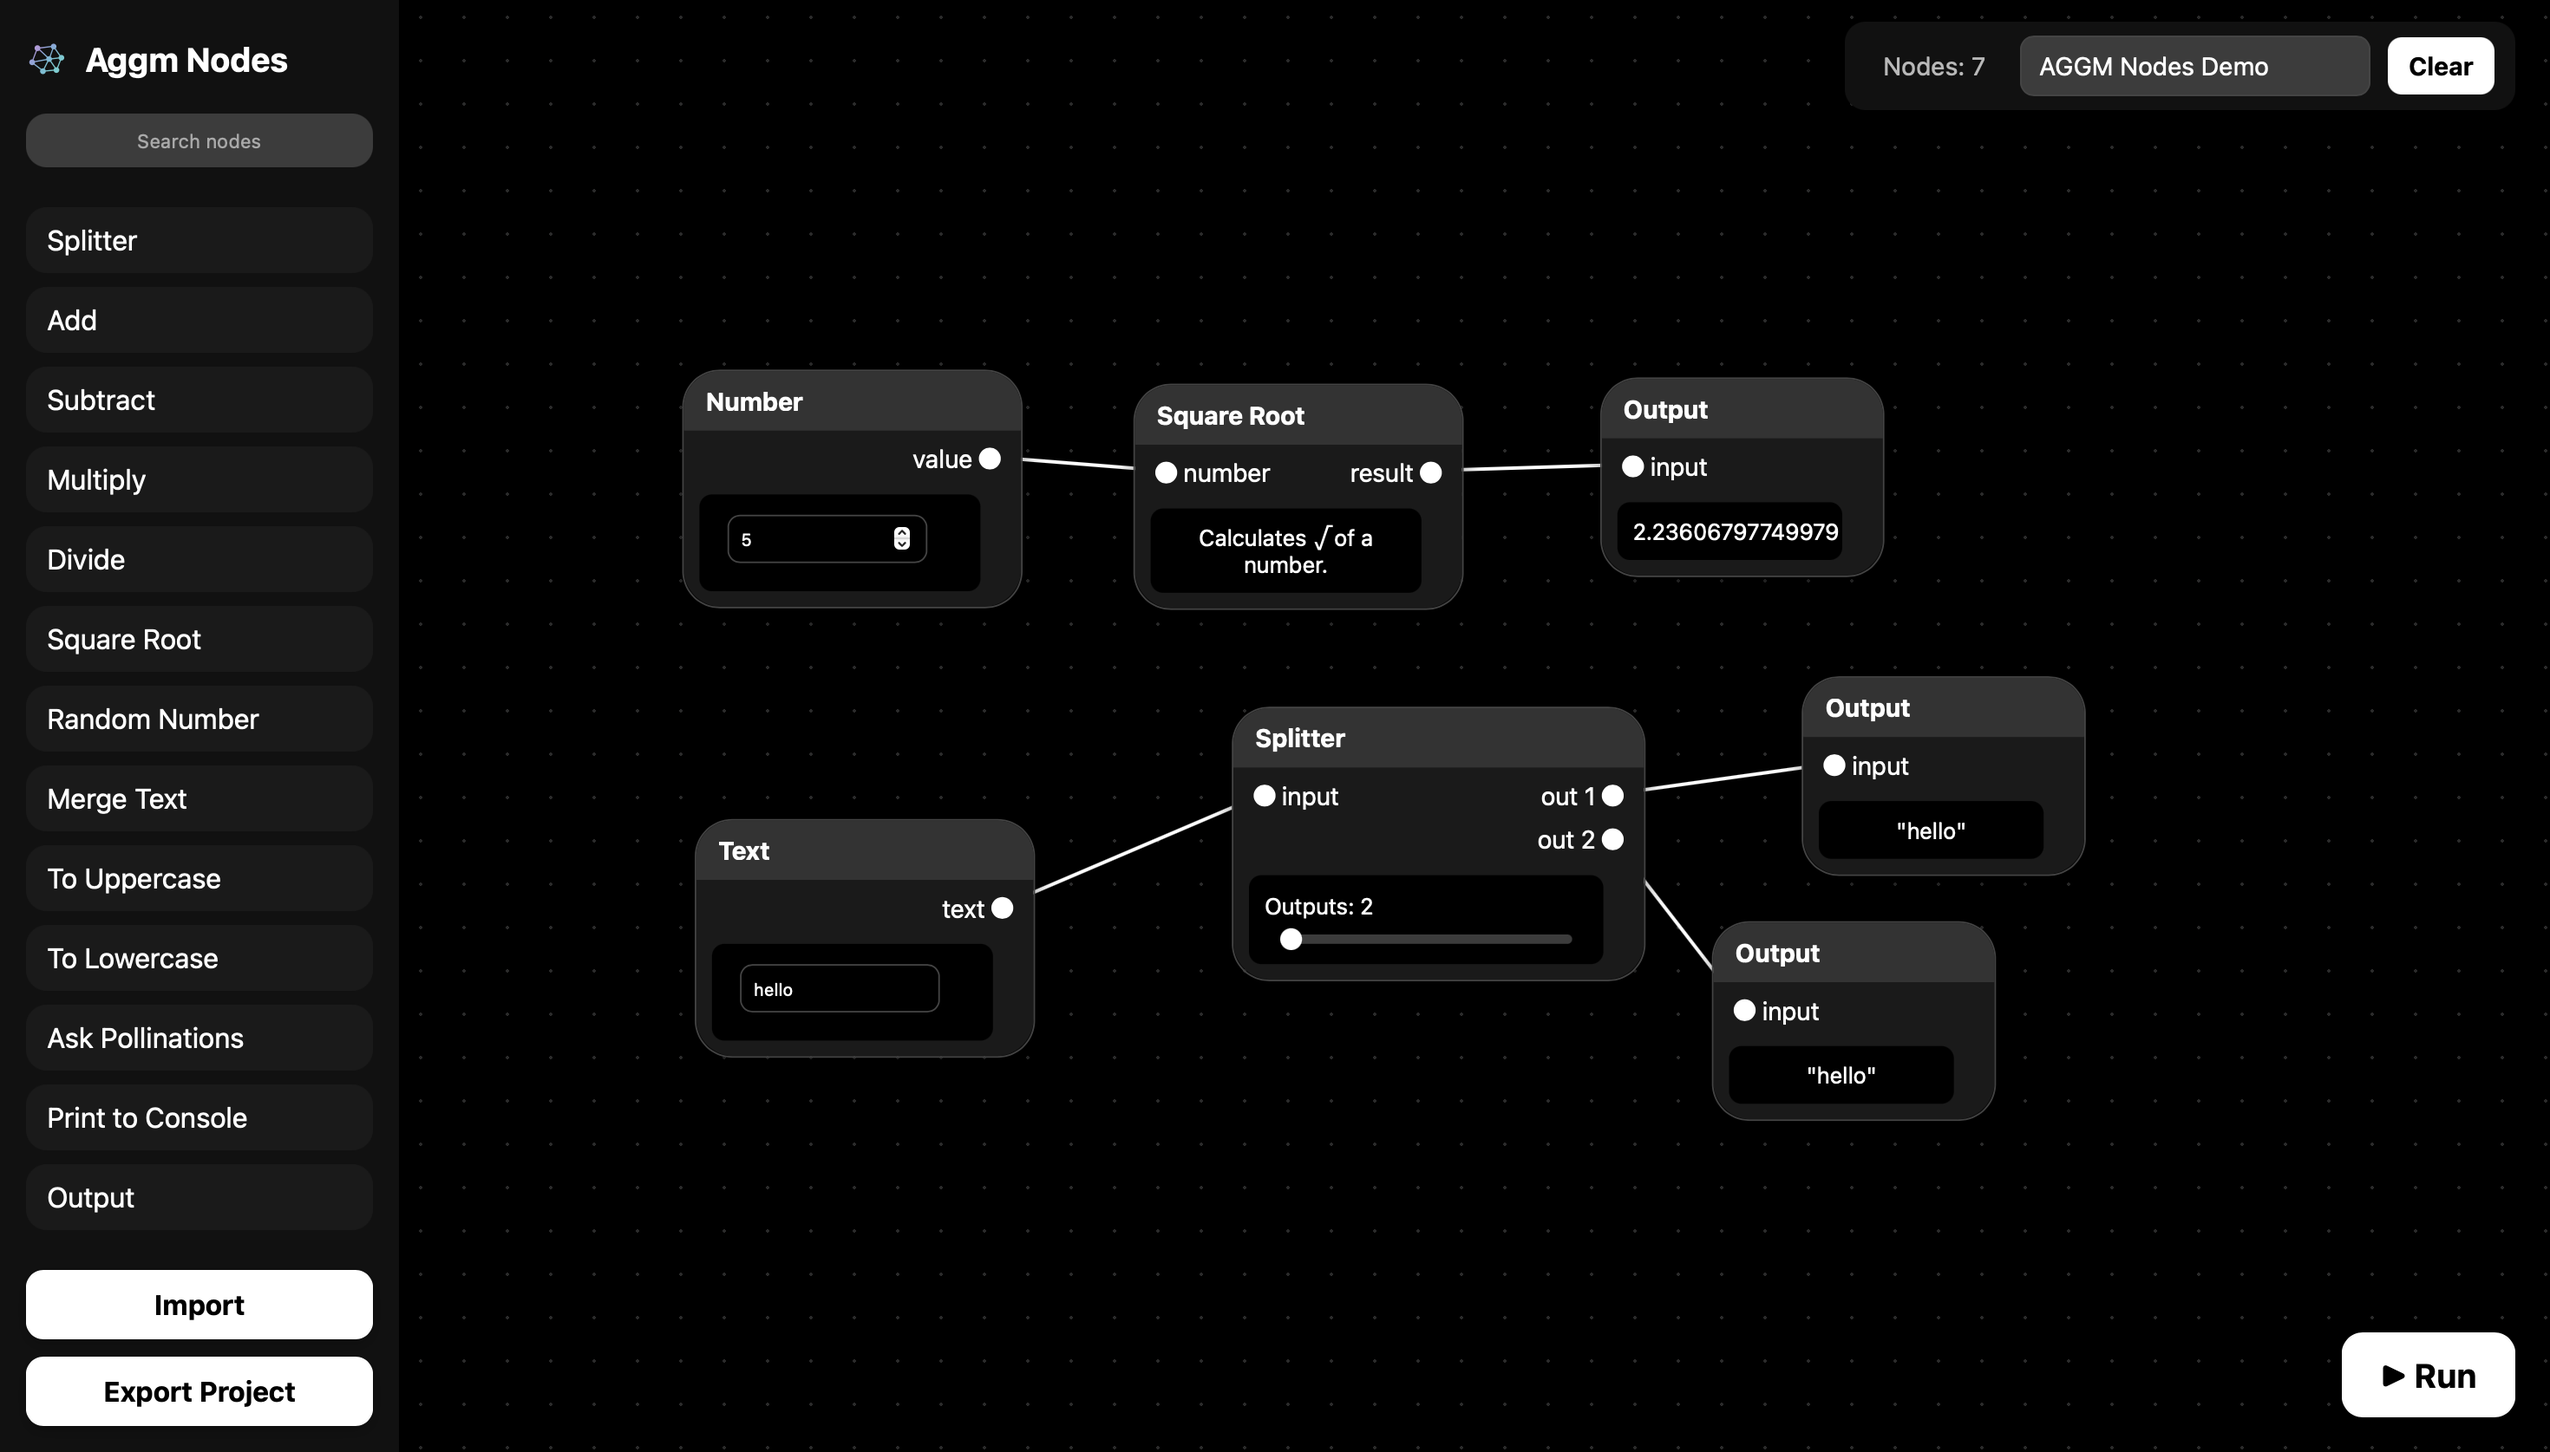
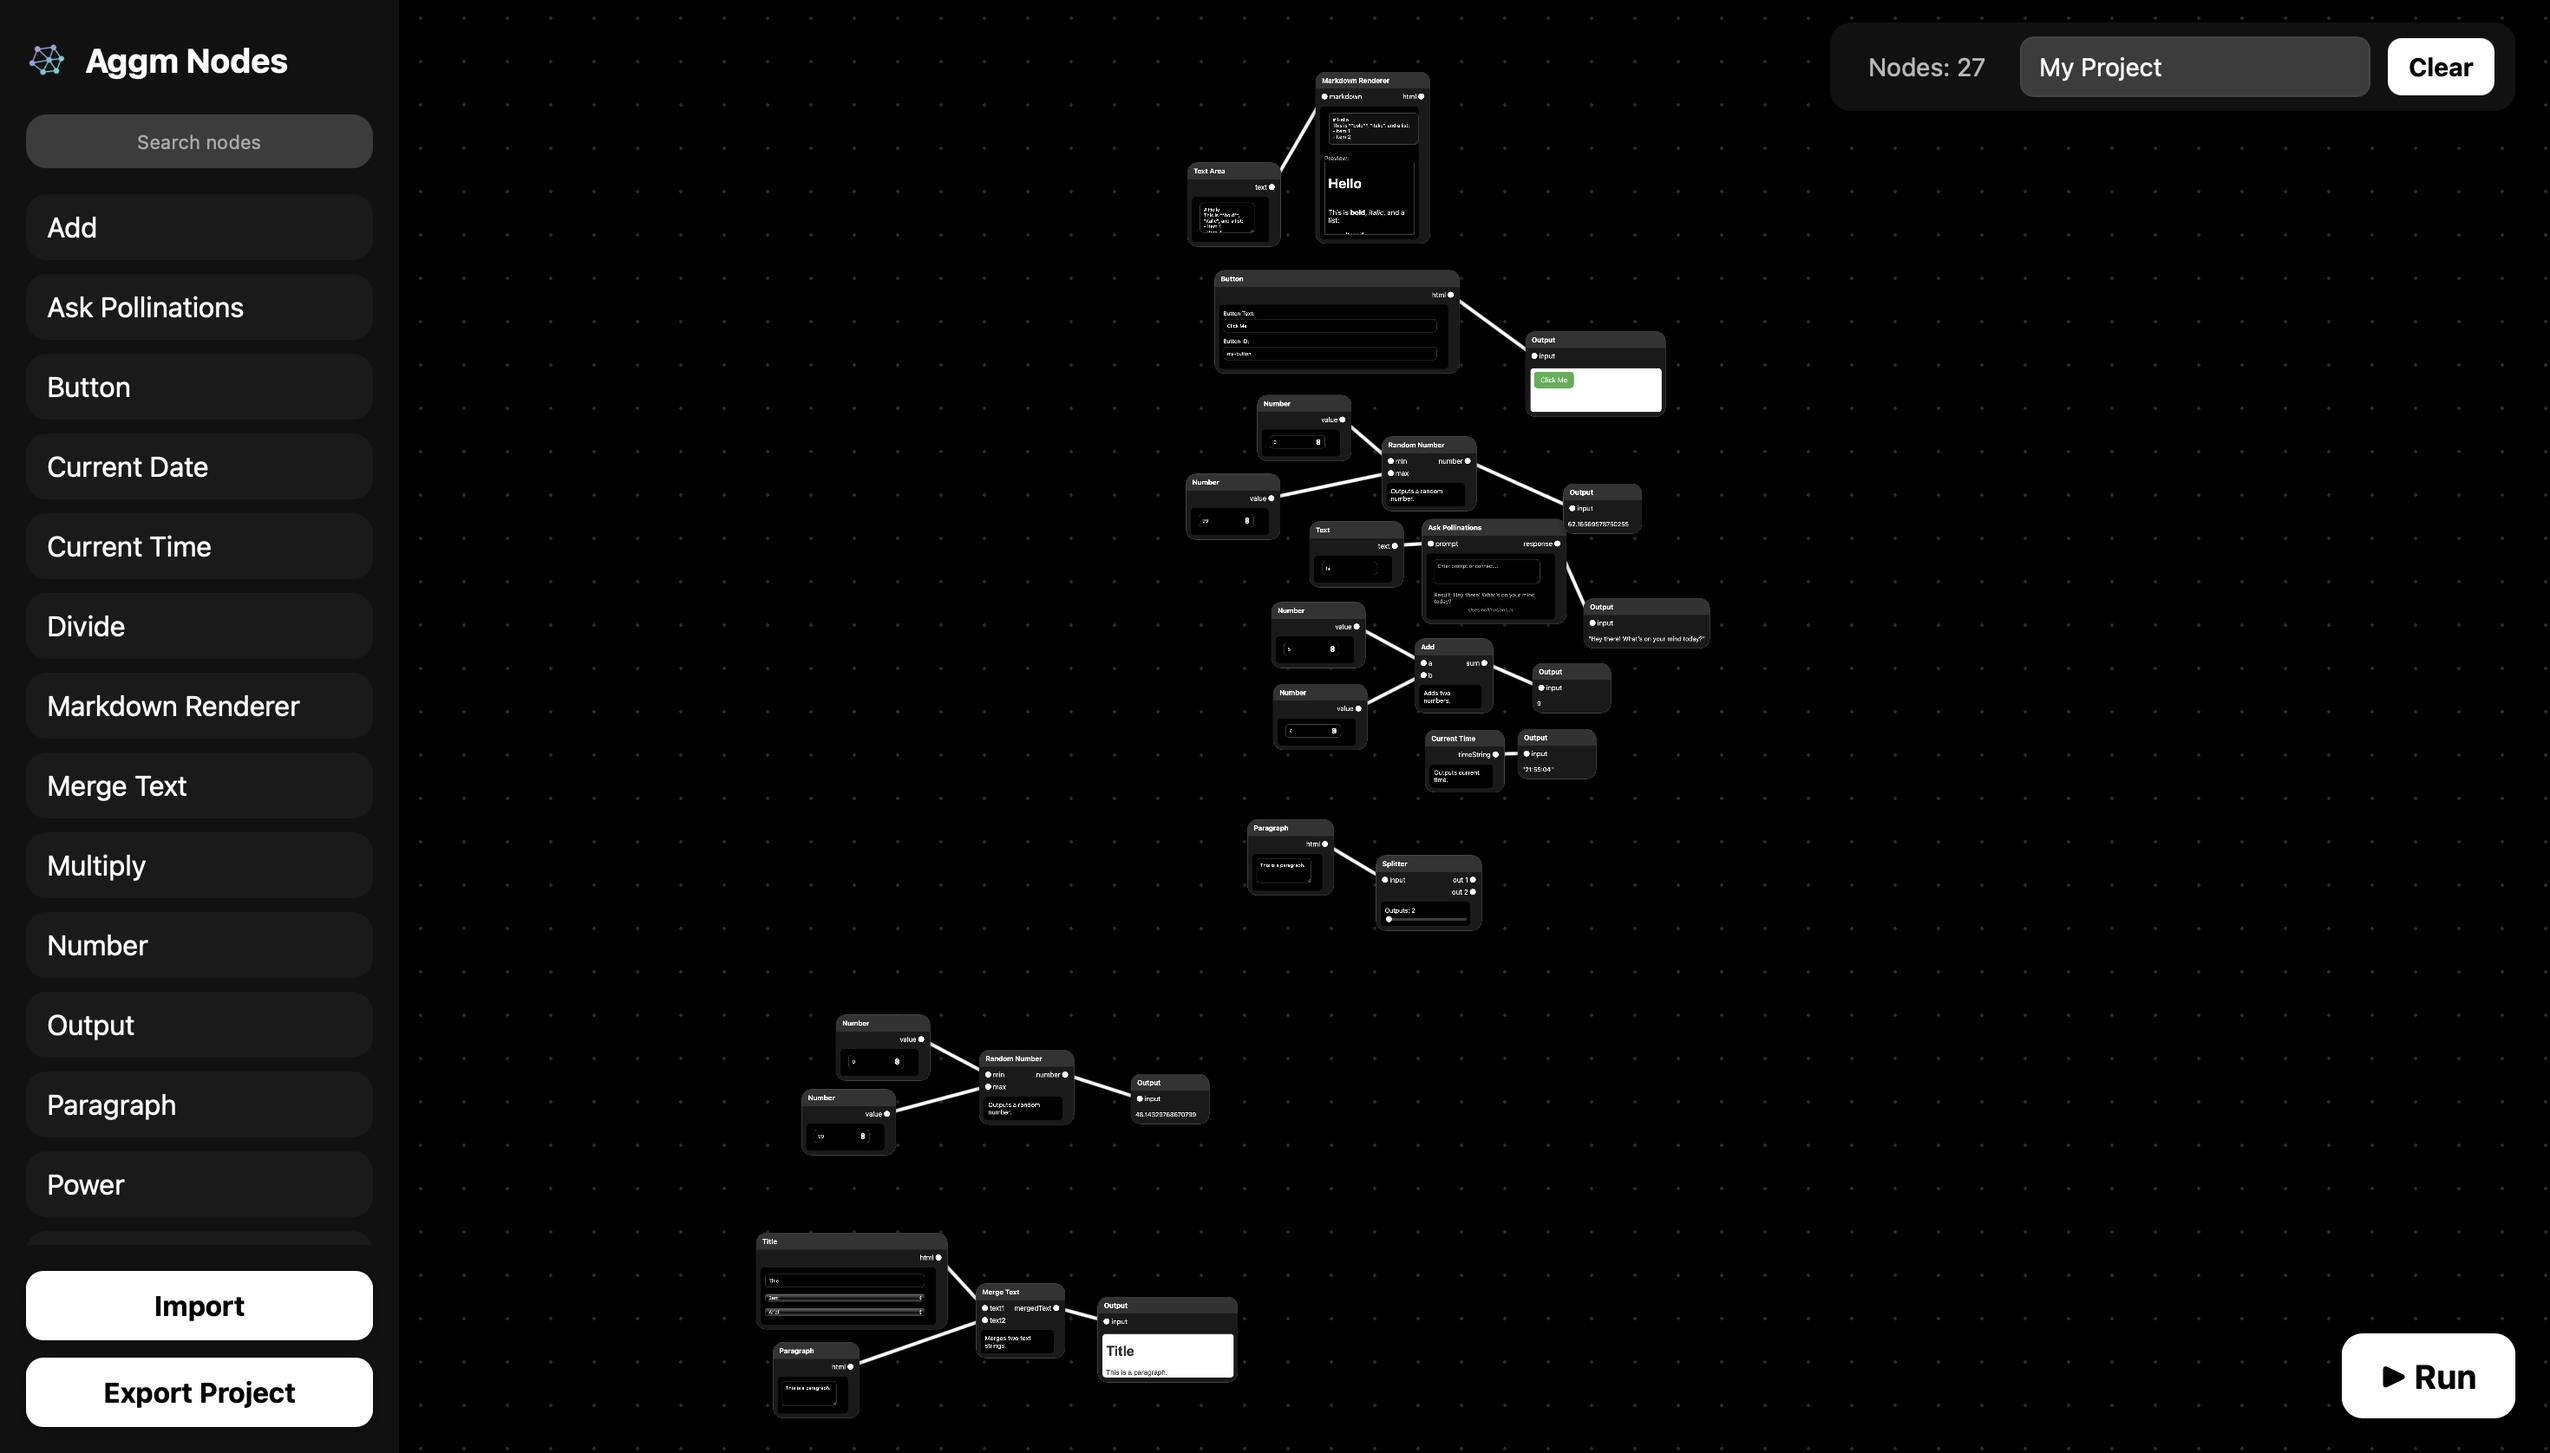
Add files via upload

diff --git a/external-nodes.js b/external-nodes.js
@@ -350,4 +350,109 @@ window.AGGM_CUSTOM_NODES = {
     pyLogic: `def compute_ask_pollinations(inputs, node):\n    prompt = inputs.get("prompt") or node.get("value", "")\n    if not prompt:\n        return None\n    try:\n        import requests\n        from urllib.parse import quote\n        encoded_prompt = quote(prompt)\n        url = f"https://text.pollinations.ai/{encoded_prompt}"\n        response = requests.get(url)\n        response.raise_for_status()\n        return response.text\n    except Exception as e:\n        print(f"PollinationsError: {e}")\n        return None`,
     pyImports: ['requests', 'from urllib.parse import quote'],
   },
+MarkDownRendererNode: {
+  definition: {
+    title: "Markdown Renderer",
+    inputs: ["markdown"],
+    outputs: ["html"],
+    defaultValue: "# Hello\nThis is **bold**, *italic*, and a list:\n- Item 1\n- Item 2",
+    
+    renderContent(node) {
+      if (node.value === undefined) node.value = this.defaultValue;
+      return `
+        <div class="node-content" style="padding:10px;">
+          <textarea class="node-input text-input" rows="6" style="width:100%; background:#111; color:white;">${node.value}</textarea>
+          <div style="margin-top: 10px; font-size:0.9rem; color:#aaa;">Preview:</div>
+          <div class="markdown-preview" style="padding:8px; background:#000; color:#fff; border:1px solid #555; max-height:150px; overflow:auto;"></div>
+        </div>`;
+    },
+
+    update(node) {
+      const textarea = node.dom.querySelector('textarea.text-input');
+      const preview = node.dom.querySelector('.markdown-preview');
+      if (textarea) {
+        node.value = textarea.value;
+        if (preview) preview.innerHTML = this.renderMarkdown(node.value);
+      }
+    },
+
+    getOutput() {
+      return this.renderMarkdown(this.value || "");
+    },
+
+    renderMarkdown(text) {
+      if (typeof text !== 'string') return '';
+
+      let html = text.replace(/</g, "&lt;").replace(/>/g, "&gt;");
+
+      // Headers
+      html = html.replace(/^###### (.*$)/gim, '<h6>$1</h6>');
+      html = html.replace(/^##### (.*$)/gim, '<h5>$1</h5>');
+      html = html.replace(/^#### (.*$)/gim, '<h4>$1</h4>');
+      html = html.replace(/^### (.*$)/gim, '<h3>$1</h3>');
+      html = html.replace(/^## (.*$)/gim, '<h2>$1</h2>');
+      html = html.replace(/^# (.*$)/gim, '<h1>$1</h1>');
+
+      // Bold and Italic
+      html = html.replace(/\*\*(.*?)\*\*/gim, '<strong>$1</strong>');
+      html = html.replace(/\*(.*?)\*/gim, '<em>$1</em>');
+
+      // Lists
+      html = html.replace(/^- (.*$)/gim, '<li>$1</li>');
+      if (html.includes('<li>')) {
+        html = html.replace(/(<li>.*<\/li>)/gims, '<ul>$1</ul>');
+      }
+
+      // Line breaks
+      html = html.replace(/\n/g, '<br>');
+
+      return html.trim();
+    },
+  },
+
+  jsLogic: `function() {
+    const renderMarkdown = (text) => {
+      if (typeof text !== 'string') return '';
+      let html = text.replace(/</g, "&lt;").replace(/>/g, "&gt;");
+      html = html.replace(/^###### (.*$)/gim, '<h6>$1</h6>');
+      html = html.replace(/^##### (.*$)/gim, '<h5>$1</h5>');
+      html = html.replace(/^#### (.*$)/gim, '<h4>$1</h4>');
+      html = html.replace(/^### (.*$)/gim, '<h3>$1</h3>');
+      html = html.replace(/^## (.*$)/gim, '<h2>$1</h2>');
+      html = html.replace(/^# (.*$)/gim, '<h1>$1</h1>');
+      html = html.replace(/\\*\\*(.*?)\\*\\*/gim, '<strong>$1</strong>');
+      html = html.replace(/\\*(.*?)\\*/gim, '<em>$1</em>');
+      html = html.replace(/^- (.*$)/gim, '<li>$1</li>');
+      if (html.includes('<li>')) {
+        html = html.replace(/(<li>.*<\\/li>)/gims, '<ul>$1</ul>');
+      }
+      html = html.replace(/\\n/g, '<br>');
+      return html.trim();
+    };
+    return renderMarkdown(this.value || "");
+  }`,
+
+  pyLogic: `def compute_markdown_renderer(inputs):
+    md = inputs.get("markdown", "")
+    if not isinstance(md, str): return ""
+    import re
+    def esc(s): return s.replace("<", "&lt;").replace(">", "&gt;")
+    html = esc(md)
+    html = re.sub(r'^###### (.*)', r'<h6>\\1</h6>', html, flags=re.MULTILINE)
+    html = re.sub(r'^##### (.*)', r'<h5>\\1</h5>', html, flags=re.MULTILINE)
+    html = re.sub(r'^#### (.*)', r'<h4>\\1</h4>', html, flags=re.MULTILINE)
+    html = re.sub(r'^### (.*)', r'<h3>\\1</h3>', html, flags=re.MULTILINE)
+    html = re.sub(r'^## (.*)', r'<h2>\\1</h2>', html, flags=re.MULTILINE)
+    html = re.sub(r'^# (.*)', r'<h1>\\1</h1>', html, flags=re.MULTILINE)
+    html = re.sub(r'\\*\\*(.*?)\\*\\*', r'<strong>\\1</strong>', html)
+    html = re.sub(r'\\*(.*?)\\*', r'<em>\\1</em>', html)
+    html = re.sub(r'^- (.*)', r'<li>\\1</li>', html, flags=re.MULTILINE)
+    html = re.sub(r'(</li>\\n<li>)', '</li><li>', html)
+    if '<li>' in html: html = '<ul>' + html + '</ul>'
+    html = html.replace('\\n', '<br>')
+    return html`,
+
+  pyImports: ['import re'],
+}
+
 };
